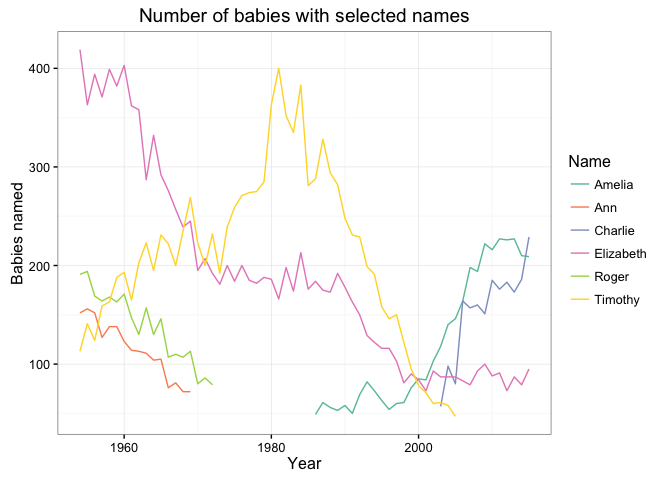
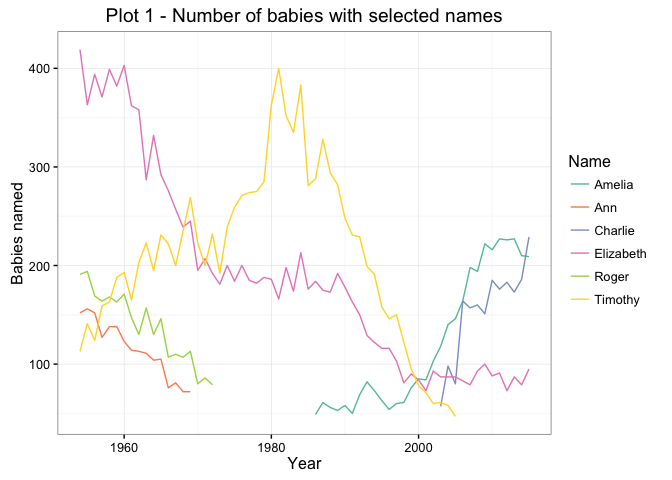
update and add new plots (ranking of most popular names)

Changed region(s): [[0.1562, 0.0, 0.75, 0.0625]]

diff --git a/Baby_names_MD.md b/Baby_names_MD.md
@@ -26,8 +26,10 @@ Plot 1 shows the number of babies with the given names for the period 1954 - 201
 
 ```r
 ggplot(data = selnames, aes(x = Year, y = No., colour = Name)) +
-  geom_line(aes(colour = Name)) + scale_color_brewer(palette = "Set2") +
-  theme_bw() + labs(title = "Number of babies with selected names", y = "Babies named") +
+  geom_line(aes(colour = Name)) + 
+  scale_color_brewer(palette = "Set2") +
+  theme_bw() + 
+  labs(title = "Plot 1 - Number of babies with selected names", y = "Babies named") +
   theme(legend.key = element_blank())
 ```
 
@@ -38,12 +40,101 @@ Plot 2 shows the ranking of the selected names (rank 1 = most popular name)
 
 ```r
 ggplot(data = selnames, aes(x = Year, y = Rank, colour = Name)) +
-  geom_line(aes(colour = Name)) + scale_color_brewer(palette = "Set2") +
-  theme_bw() + scale_y_reverse(breaks = seq(0,100,15)) + 
-  labs(title = "Ranking of selected names", y = "Name Rank") + 
-  scale_x_continuous(breaks = seq(0, 2015, 10)) + theme(legend.key = element_blank())
+  geom_line(aes(colour = Name)) + 
+  scale_color_brewer(palette = "Set2") +
+  theme_bw() + 
+  scale_y_reverse(breaks = seq(0,100,15)) + 
+  labs(title = "Plot 2 - Ranking of selected names", y = "Name Rank") + 
+  scale_x_continuous(breaks = seq(0, 2015, 10)) + 
+  theme(legend.key = element_blank())
 ```
 
 ![](Baby_names_MD_files/figure-html/unnamed-chunk-4-1.png) 
 
 From the two plots above, you can probably guess what generation each of the names come from.
+
+
+Now we'll dig into the data a bit deeper.  What are the most popular names in the period 1955 - 2015?
+
+```r
+### Boys names
+topboynames <- babynames %>% 
+  filter(Sex == "Boy") %>% 
+  group_by(Name) %>% 
+  summarise(Number = sum(No.)) %>% 
+  arrange(-Number) %>% 
+  slice(1:10) %>% 
+  mutate(Name = reorder(Name, -Number, sum)) 
+
+ggplot(topboynames, aes(x = Name, y = Number)) + 
+  geom_bar(stat="identity") +
+  labs(title="Plot 3 - Most popular boys names 1955-2015", y = "Number of babies")
+```
+
+![](Baby_names_MD_files/figure-html/unnamed-chunk-5-1.png) 
+
+```r
+### Girls names
+topgirlnames <- babynames %>% 
+  filter(Sex == "Girl") %>% 
+  group_by(Name) %>% 
+  summarise(Number = sum(No.)) %>% 
+  arrange(-Number) %>% 
+  slice(1:10) %>% 
+  mutate(Name = reorder(Name, -Number, sum))
+
+ggplot(topgirlnames, aes(x = Name, y = Number)) + 
+  geom_bar(stat="identity") +
+  labs(title="Plot 4 - Most popular girls names 1955-2015", y = "Number of babies")
+```
+
+![](Baby_names_MD_files/figure-html/unnamed-chunk-5-2.png) 
+
+
+So how have those top names faired on a year by year basis?
+For a cleaner plot, we'll only look at the top 6 for each sex.
+
+```r
+### Top boys names
+
+# Create vector of names
+top6boysvec <- topboynames %>% select(Name) %>% slice(1:6) %>% droplevels() %>% .$Name
+
+# Create df
+top6boysdata <- babynames %>% filter(Name %in% top6boysvec & Sex == "Boy") %>% droplevels()
+
+# Create plot  
+ggplot(data = top6boysdata, aes(x = Year, y = Rank, colour = Name)) +
+  geom_line(aes(colour = Name)) + 
+  scale_color_brewer(palette = "Set2") +
+  theme_bw() + 
+  scale_y_reverse(breaks = c(1,10,20,30,40,50,60,70,80,90,100)) + 
+  labs(title = "Plot 5 - Ranking of top boys names", y = "Name Rank") + 
+  scale_x_continuous(breaks = seq(0, 2015, 10)) + 
+  theme(legend.key = element_blank())
+```
+
+![](Baby_names_MD_files/figure-html/unnamed-chunk-6-1.png) 
+
+```r
+### Top girls names
+
+# Create vector of required names
+top6girlsvec <- topgirlnames %>% select(Name) %>% slice(1:6) %>% droplevels() %>% .$Name
+
+# Create df 
+top6girlsdata <- babynames %>% filter(Name %in% top6girlsvec & Sex == "Girl") %>% droplevels()
+
+# Create plot  
+ggplot(data = top6girlsdata, aes(x = Year, y = Rank, colour = Name)) +
+  geom_line(aes(colour = Name)) + 
+  scale_color_brewer(palette = "Set2") +
+  theme_bw() + 
+  scale_y_reverse(breaks = c(1,10,20,30,40,50,60,70,80,90,100)) + 
+  labs(title = "Plot 6 - Ranking of girls names", y = "Name Rank") + 
+  scale_x_continuous(breaks = seq(0, 2015, 10)) + 
+  theme(legend.key = element_blank())
+```
+
+![](Baby_names_MD_files/figure-html/unnamed-chunk-6-2.png) 
+
